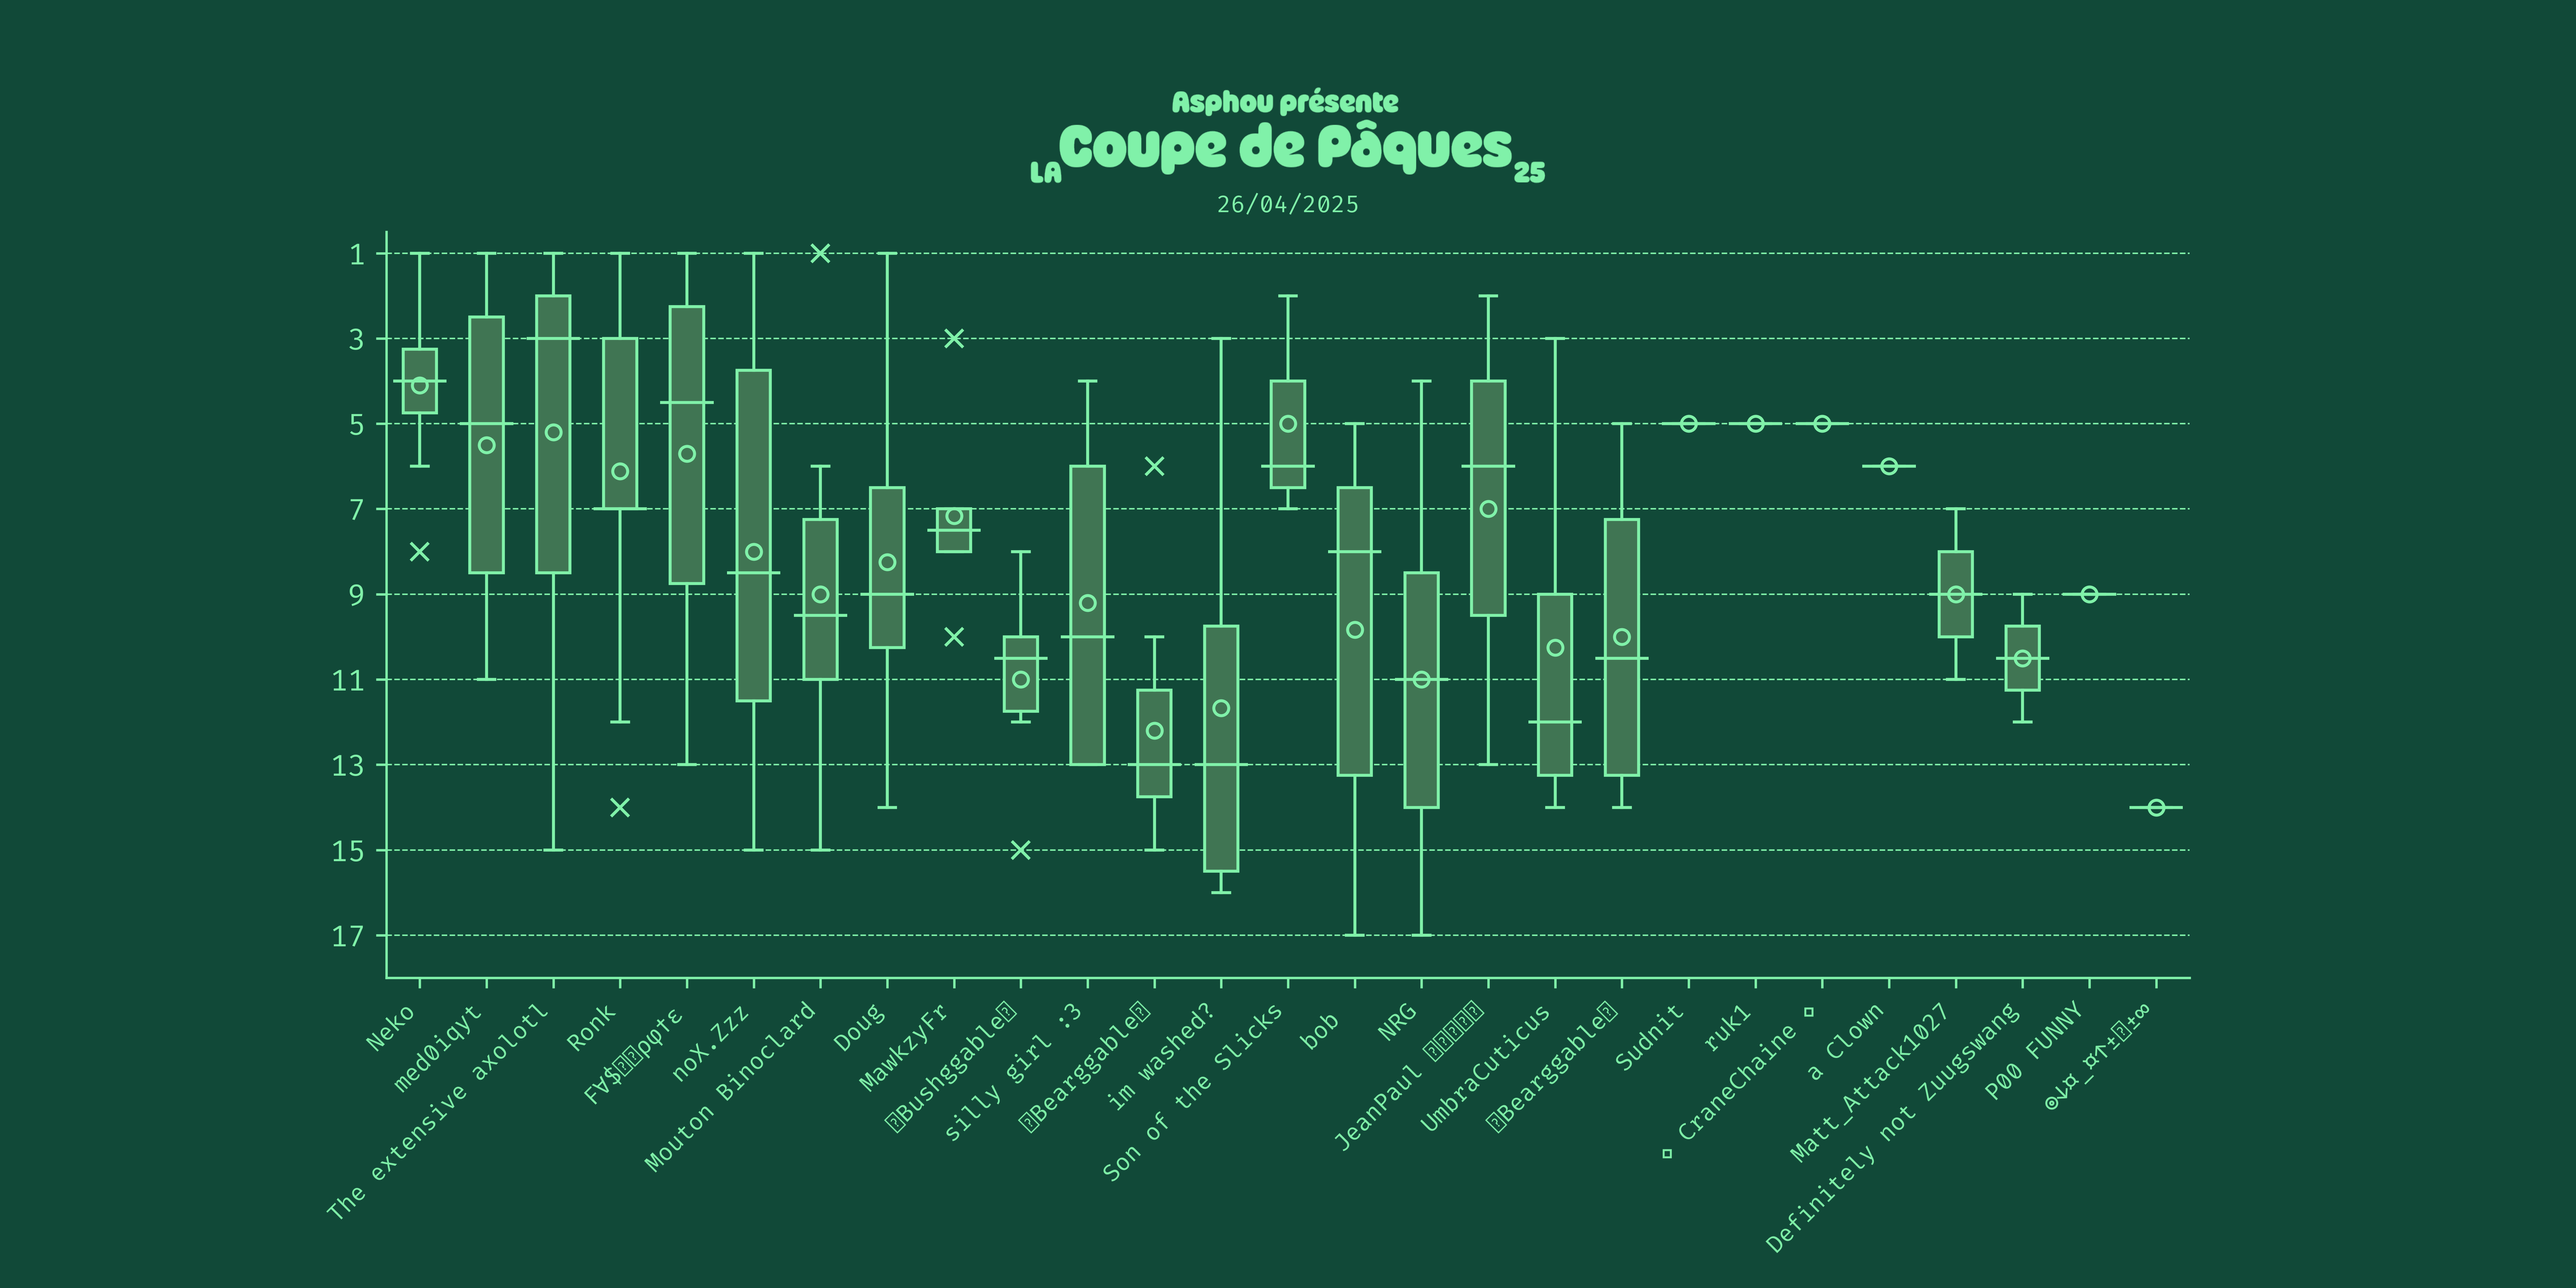
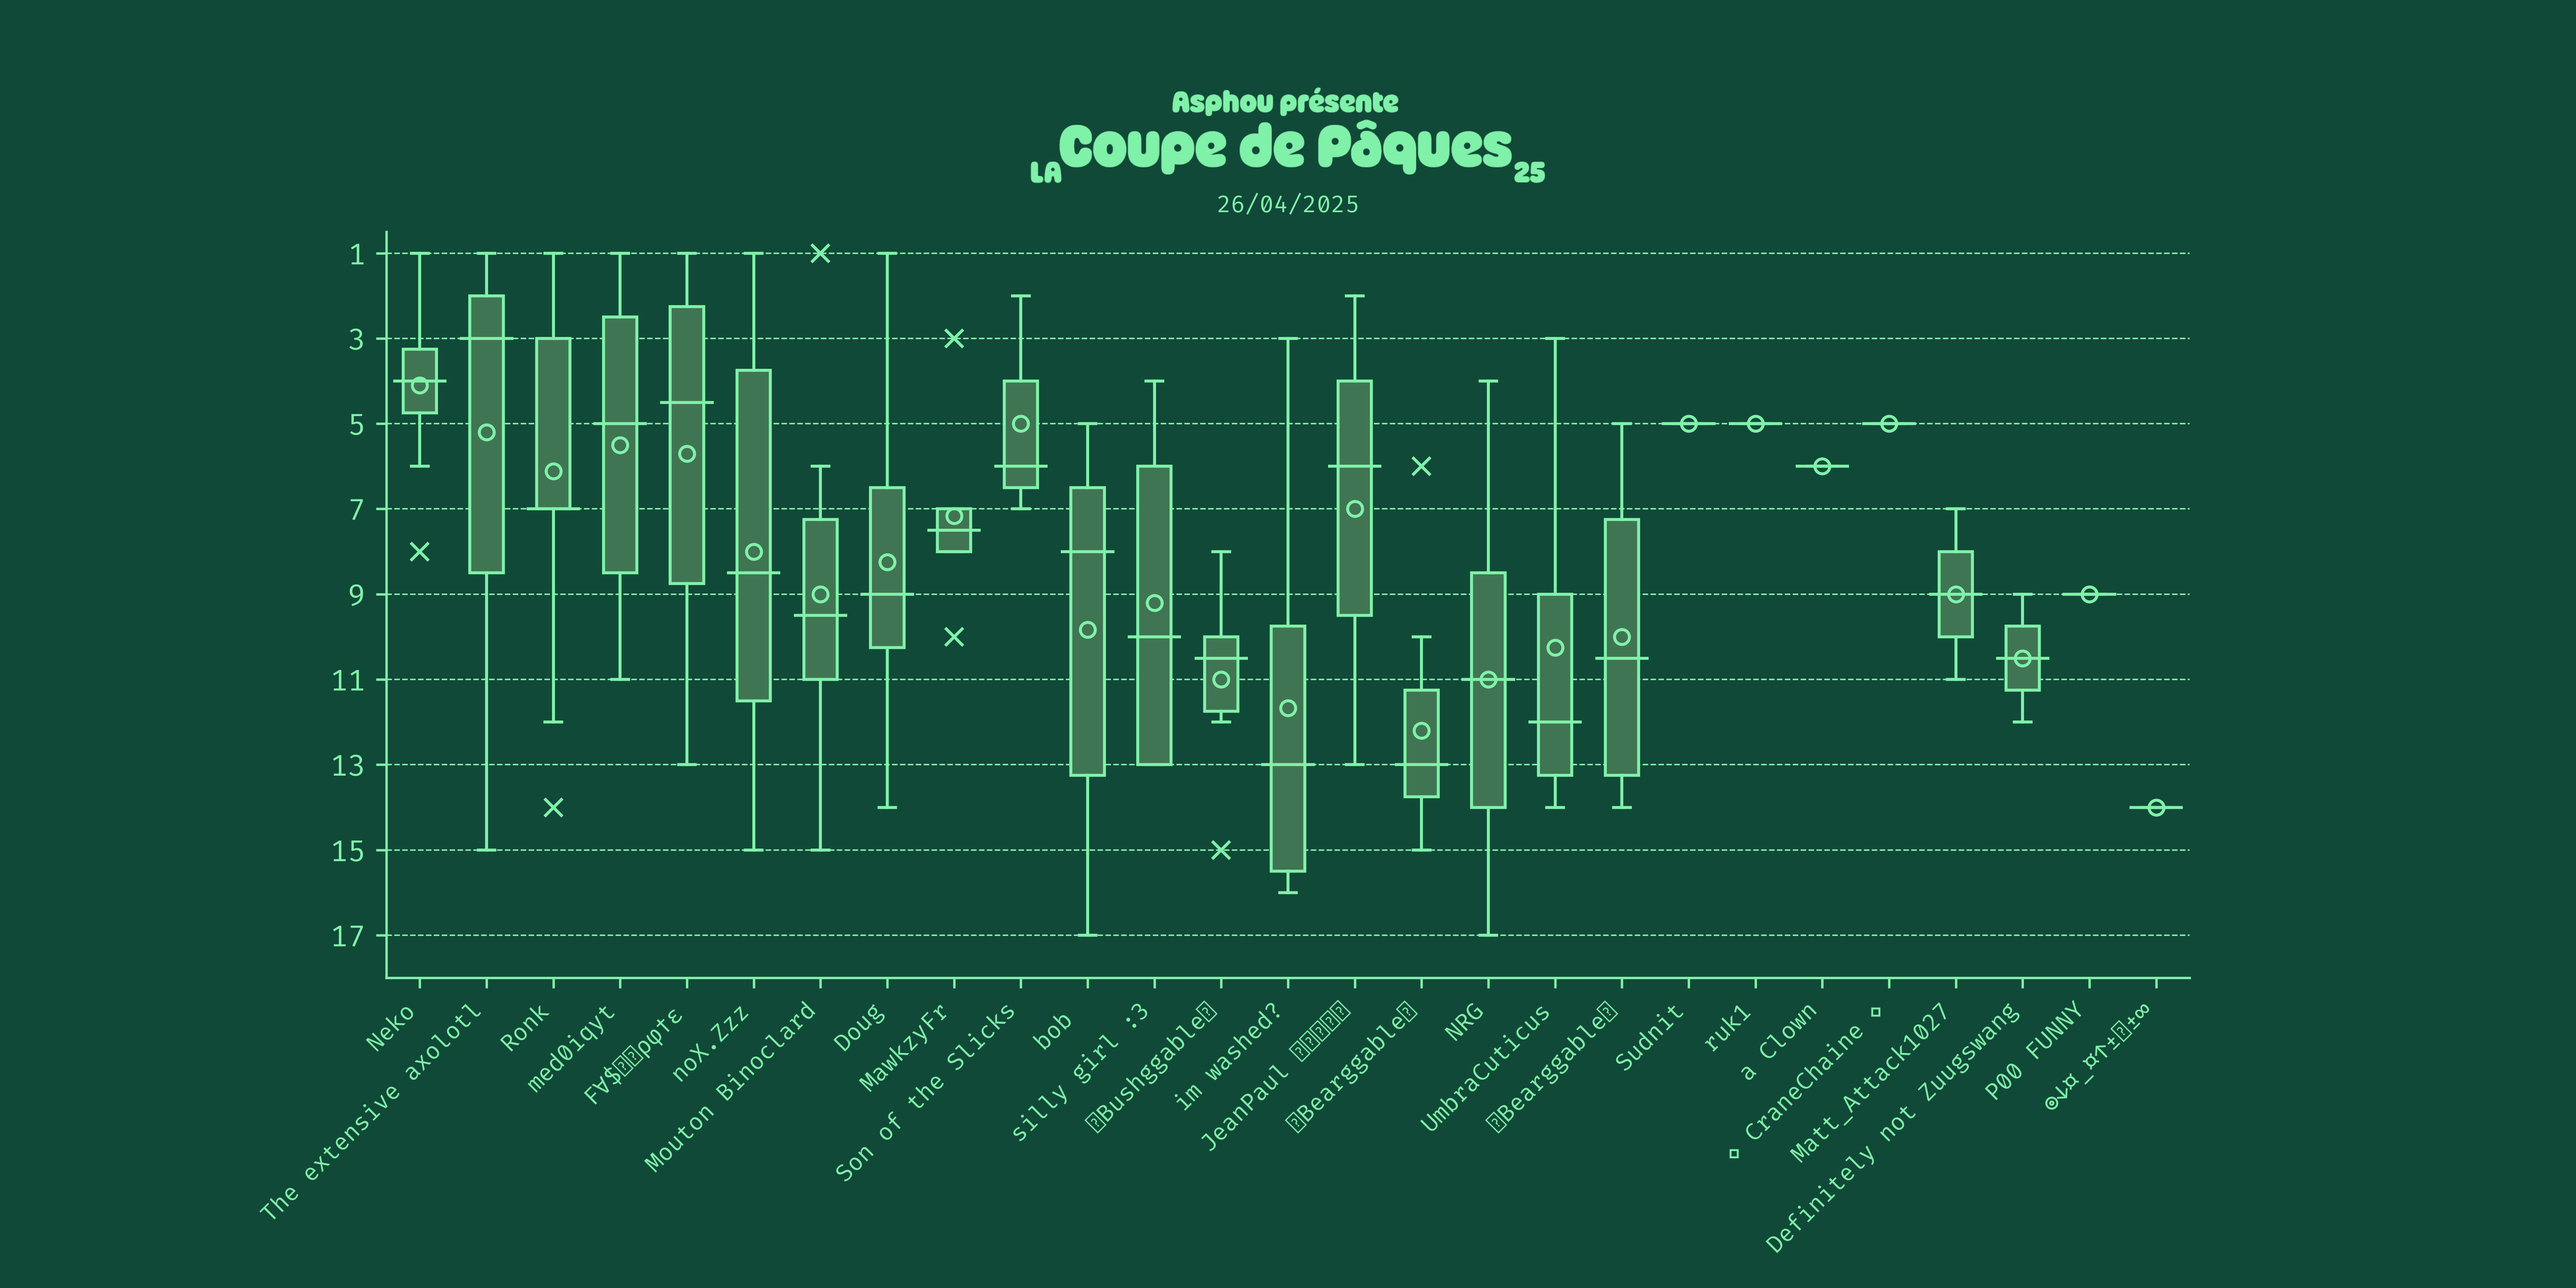
changement pour coupe de paques

diff --git a/SPC.py b/SPC.py
@@ -97,7 +97,7 @@ print("")
 # Type the name of the file containing the scoring system you want to use:
 # (The file must be in the SPC_scoring_presets folder.)
 
-from SPC_scoring.spi import kill_points, placement_points, masterkill
+from SPC_scoring.coupes_de_paques import kill_points, placement_points, masterkill
 import inspect
 
 # It must be something like SPC_scoring_presets.name_of_the_file_without_the_extension
@@ -131,7 +131,7 @@ print("")
 'CHANGE THE NAME ON THE GRAPH'
 
 # Here, you can change the tournament name that will appear on the graph.
-nom_du_tournoi = "Test Tournament"
+nom_du_tournoi = "Coupe de Pâques 2025"
 
 # Here you can specify if you want to add a logotype to the graph
 logo=True
